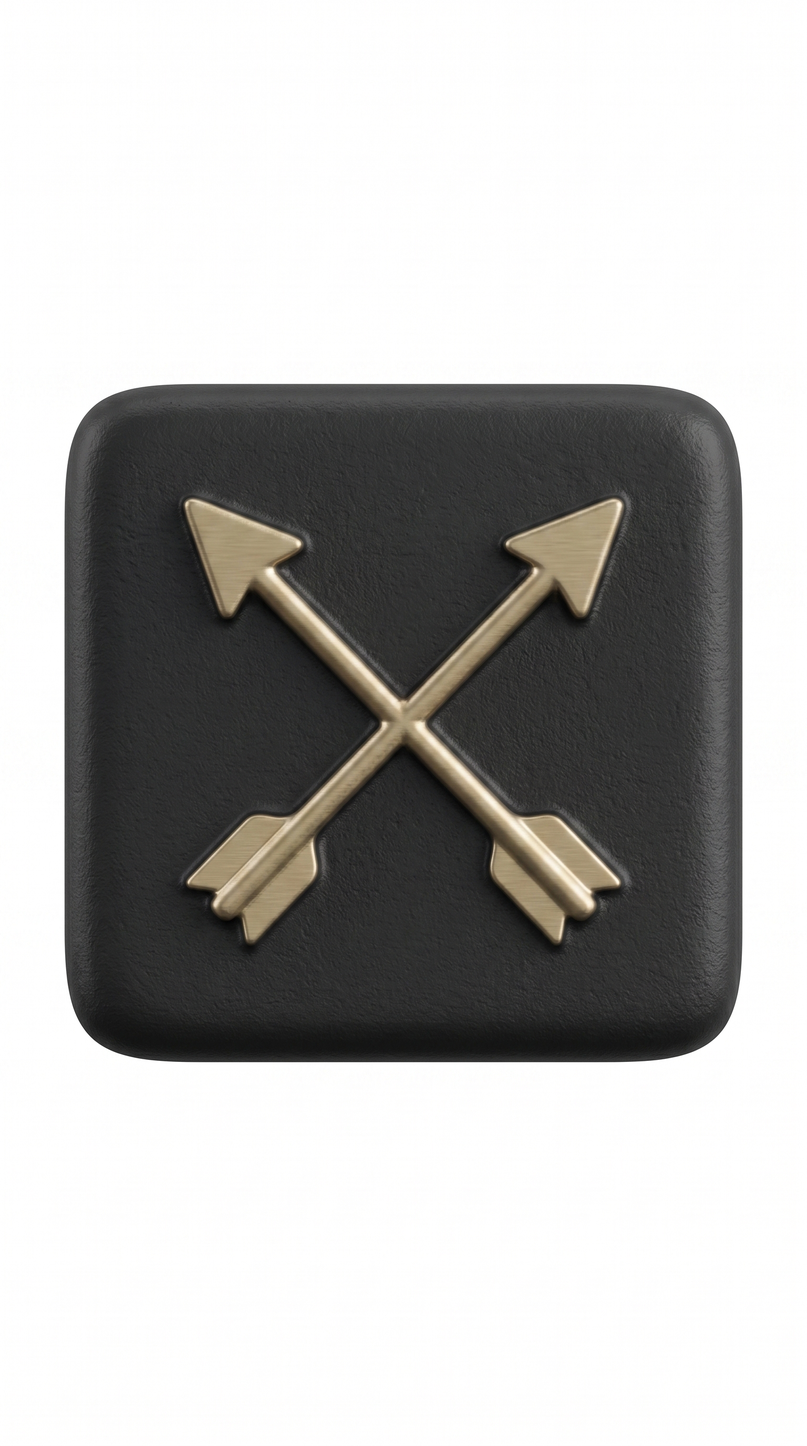
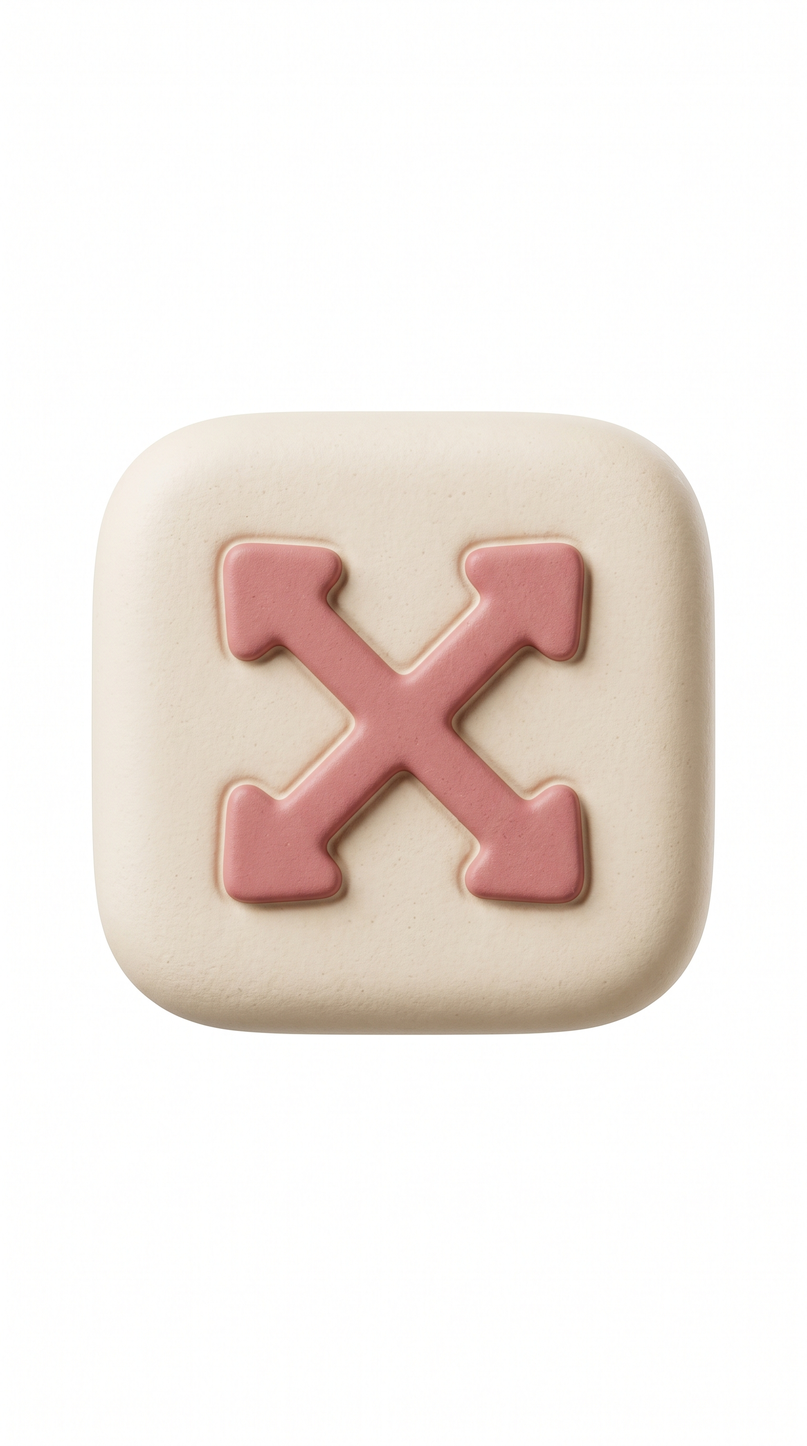
feat: Chroma-Key fuer helle Motive
Der Studio-Hintergrund kommt nie als exaktes Weiss aus dem Modell. Beim
Katzen-Render lief er von 241 bis 251 Grau, waehrend das cremeweisse Fell bei
249 bis 251 liegt -- an der Stirn sind Motiv und Hintergrund farbgleich. Weder
ein Schwellwert noch die Konnektivitaetsanalyse koennen das trennen: das
Keying riss eine Kerbe in den Kopf, bei btn_undo fehlte ein Stueck der rechten
Kante, und weil dadurch die Inhaltsbox schrumpfte, wurden die drei Buttons
ungleich gross.

- detectKeyColor erkennt an den Bildecken automatisch, ob gegen Weiss oder
  gegen eine Chroma-Flaeche gekeyt werden muss
- Chroma-Pfad entfaerbt den Saum, damit kein bunter Rand stehen bleibt
- Bestehende Assets bleiben unveraendert: die Erkennung verlangt einheitliche
  Ecken mit Kanalspreizung > 60
- CLAUDE.md: Hintergrundfarbe als erste Katalogregel, Prompts fuer Katze und
  Buttons auf Magenta umgestellt

diff --git a/scripts/process_assets.js b/scripts/process_assets.js
@@ -256,7 +256,65 @@ function fillInteriorHoles(data, width, height, alphaMax = 250) {
   return filled;
 }
 
-function defringe(data, stripHalo = true) {
+// Erkennt, wogegen freigestellt werden muss. Standard ist Weiss. Ist der Rand
+// dagegen kraeftig bunt und einheitlich, wurde gegen eine Chroma-Flaeche
+// gerendert -- dann wird gegen diese Farbe gekeyt.
+//
+// Noetig fuer helle Motive: der Katzen-Render hat einen Studio-Hintergrund von
+// 241..251 Grau, waehrend das cremeweisse Fell bei 249..251 liegt. An der Stirn
+// sind Motiv und Hintergrund exakt dieselbe Farbe -- weder ein Schwellwert noch
+// eine Konnektivitaetsanalyse koennen das trennen. Gegen ein saettigungsstarkes
+// Chroma ist die Trennung dagegen eindeutig.
+function detectKeyColor(data, width, height) {
+  const samples = [];
+  const inset = 4;
+  for (const [x, y] of [
+    [inset, inset], [width - 1 - inset, inset],
+    [inset, height - 1 - inset], [width - 1 - inset, height - 1 - inset],
+    [Math.floor(width / 2), inset], [Math.floor(width / 2), height - 1 - inset]
+  ]) {
+    const i = (y * width + x) * 4;
+    samples.push([data[i], data[i + 1], data[i + 2]]);
+  }
+
+  const avg = [0, 1, 2].map(c => samples.reduce((a, p) => a + p[c], 0) / samples.length);
+  const spread = Math.max(...avg) - Math.min(...avg);
+
+  // Alle Ecken nah beieinander?
+  const uniform = samples.every(p =>
+    Math.abs(p[0] - avg[0]) < 30 && Math.abs(p[1] - avg[1]) < 30 && Math.abs(p[2] - avg[2]) < 30);
+
+  if (uniform && spread > 60) {
+    return { r: Math.round(avg[0]), g: Math.round(avg[1]), b: Math.round(avg[2]), chroma: true };
+  }
+  return { r: 255, g: 255, b: 255, chroma: false };
+}
+
+function defringe(data, stripHalo = true, key = null) {
+  if (key && key.chroma) {
+    // Chroma-Key: Abstand zur Hintergrundfarbe. Zusaetzlich wird der Farbstich
+    // aus den Randpixeln gerechnet, sonst bleibt ein bunter Saum stehen.
+    for (let i = 0; i < data.length; i += 4) {
+      const dist = Math.sqrt(
+        (key.r - data[i]) ** 2 + (key.g - data[i + 1]) ** 2 + (key.b - data[i + 2]) ** 2);
+      if (dist < 60) data[i + 3] = 0;
+      else if (dist < 110) {
+        data[i + 3] = Math.floor(((dist - 60) / 50) * 255);
+        // Saum entfaerben: Richtung Graustufe des Pixels ziehen
+        const lum = (data[i] + data[i + 1] + data[i + 2]) / 3;
+        const t = 1 - (dist - 60) / 50;
+        data[i] = Math.round(data[i] * (1 - t) + lum * t);
+        data[i + 1] = Math.round(data[i + 1] * (1 - t) + lum * t);
+        data[i + 2] = Math.round(data[i + 2] * (1 - t) + lum * t);
+      }
+    }
+    return data;
+  }
+
+  return defringeWhite(data, stripHalo);
+}
+
+function defringeWhite(data, stripHalo = true) {
   for (let i = 0; i < data.length; i += 4) {
     const dist = Math.sqrt((255 - data[i]) ** 2 + (255 - data[i + 1]) ** 2 + (255 - data[i + 2]) ** 2);
     if (dist < 18) data[i + 3] = 0;
@@ -357,7 +415,9 @@ function trimShadowEdges(data, width, box, threshold = 0.9) {
 // Flaeche eingegrenzt, damit ein zweites Objekt im Render nichts verschiebt.
 async function cropToContent(filePath, strategy = 'union', trimShadow = false, softEdge = 0) {
   const { data, info } = await sharp(filePath).ensureAlpha().raw().toBuffer({ resolveWithObject: true });
-  defringe(data);
+  const key = detectKeyColor(data, info.width, info.height);
+  if (key.chroma) console.log(`    Chroma-Hintergrund erkannt: rgb(${key.r},${key.g},${key.b})`);
+  defringe(data, true, key);
 
   const holes = fillInteriorHoles(data, info.width, info.height);
   if (holes > 0) console.log(`    ${holes} Innenpixel wiederhergestellt`);
@@ -459,7 +519,9 @@ async function processImages() {
 
       // Bildfuellende Ebene: nur freistellen, Position im Frame bleibt erhalten.
       const { data, info } = await sharp(filePath).ensureAlpha().raw().toBuffer({ resolveWithObject: true });
-      defringe(data, false);
+      const key = detectKeyColor(data, info.width, info.height);
+      if (key.chroma) console.log(`    Chroma-Hintergrund erkannt: rgb(${key.r},${key.g},${key.b})`);
+      defringe(data, false, key);
 
       // Rahmen mit geschlossener Rueckwand: Innenflaeche ausstanzen. Das Loch ist
       // danach die exakte lichte Nische -- praeziser als die Helligkeits-Heuristik

diff --git a/CLAUDE.md b/CLAUDE.md
@@ -22,6 +22,17 @@ Schrift: **M PLUS Rounded 1c** (`@fontsource/m-plus-rounded-1c`, nur Latin 500 +
 
 ## 3. Nano Banana Pro Asset Generation Catalog
 
+### Hintergrundfarbe: Weiß oder Magenta
+
+Freigestellt wird gegen die Hintergrundfarbe des Renders. Welche zu wählen ist, hängt am Motiv:
+
+- **Dunkle oder kräftig farbige Motive** → `pure solid white background (#FFFFFF)`. Funktioniert seit jeher.
+- **Helle, cremefarbene oder weiße Motive** → `pure solid magenta background (#FF00FF)`. **Pflicht**, nicht optional.
+
+Der Grund: der Studio-Hintergrund kommt nie als exaktes Weiß aus dem Modell, sondern mit Vignette. Beim Katzen-Render lief er von 241 bis 251 Grau, während das cremeweiße Fell bei 249 bis 251 liegt — an der Stirn sind Motiv und Hintergrund exakt dieselbe Farbe. Das Keying riss daraufhin eine Kerbe in den Kopf, und bei `btn_undo` fehlte ein ganzes Stück der rechten Kante. Weil dadurch auch die Inhaltsbox schrumpfte, wurden die drei Booster-Buttons noch dazu ungleich groß.
+
+Gegen Magenta ist die Trennung eindeutig: kein Ton der Kissa-Palette kommt ihm nahe (das dunkle Azuki-Rosé liegt weit entfernt). Die Pipeline erkennt den Chroma-Hintergrund automatisch an den Bildecken — es ist **keine Konfiguration nötig**, nur der richtige Prompt. Der Saum wird beim Keying zusätzlich entfärbt, damit kein bunter Rand stehen bleibt.
+
 ### Master Negative Prompt (Append to all runs)
 hyper-realistic, high gloss reflections, shiny liquid specular, crumbs, baked floor shadows, blurry edges, gradient background, photorealism, text, watermark, logo, perspective tilt, 3d render artifacts, multiple objects, second object, duplicate, collage, grid layout, product lineup
 
@@ -74,15 +85,16 @@ Format: Portrait 9:16 Canvas, Karte horizontal zentriert, großzügiges Weiß ü
 ### Booster Button Prompts (v3)
 v2 waren schwarze Kuro-Steel-Kacheln. Vor dem Gartenhintergrund wirken sie hart und düster — v3 ist heller, runder und freundlicher, bleibt aber in der Palette der Szene (Creme, Matcha, Azuki, Hinoki, Messing).
 Format: Portrait 9:16 Canvas, Objekt mittig, **genau ein Objekt im Bild**. Alle drei mit identischem Körper, nur das Relief unterscheidet sich — sonst wirkt die Reihe unruhig.
+**Magenta-Hintergrund**, weil der Körper cremefarben ist (siehe oben).
 
 14. **btn_undo:**
-    Single chunky rounded-square push button in soft warm cream ceramic with generously rounded corners and a soft pillowy silhouette, a thick raised matcha-green counter-clockwise curved arrow sculpted in smooth low relief on its face, friendly modern art toy look, tactile matte finish with zero gloss, Japanese modern kissa palette, orthographic front view, centered on a portrait 9:16 canvas with generous white padding, pure solid white background (#FFFFFF), zero floor shadow, sharp silhouette edge definition, 8k resolution --style raw
+    Single chunky rounded-square push button in soft warm cream ceramic with generously rounded corners and a soft pillowy silhouette, a thick raised matcha-green counter-clockwise curved arrow sculpted in smooth low relief on its face, friendly modern art toy look, tactile matte finish with zero gloss, Japanese modern kissa palette, orthographic front view, centered on a portrait 9:16 canvas with generous even padding, pure solid magenta background (#FF00FF), zero floor shadow, sharp silhouette edge definition, 8k resolution --style raw
 
 15. **btn_shuffle:**
-    Single chunky rounded-square push button in soft warm cream ceramic with generously rounded corners and a soft pillowy silhouette, two thick raised azuki-rose arrows crossing each other in an X sculpted in smooth low relief on its face, friendly modern art toy look, tactile matte finish with zero gloss, Japanese modern kissa palette, orthographic front view, centered on a portrait 9:16 canvas with generous white padding, pure solid white background (#FFFFFF), zero floor shadow, sharp silhouette edge definition, 8k resolution --style raw
+    Single chunky rounded-square push button in soft warm cream ceramic with generously rounded corners and a soft pillowy silhouette, two thick raised azuki-rose arrows crossing each other in an X sculpted in smooth low relief on its face, friendly modern art toy look, tactile matte finish with zero gloss, Japanese modern kissa palette, orthographic front view, centered on a portrait 9:16 canvas with generous even padding, pure solid magenta background (#FF00FF), zero floor shadow, sharp silhouette edge definition, 8k resolution --style raw
 
 16. **btn_hammer:**
-    Single chunky rounded-square push button in soft warm cream ceramic with generously rounded corners and a soft pillowy silhouette, a thick raised blonde hinoki wood mallet sculpted in smooth low relief on its face, friendly modern art toy look, tactile matte finish with zero gloss, Japanese modern kissa palette, orthographic front view, centered on a portrait 9:16 canvas with generous white padding, pure solid white background (#FFFFFF), zero floor shadow, sharp silhouette edge definition, 8k resolution --style raw
+    Single chunky rounded-square push button in soft warm cream ceramic with generously rounded corners and a soft pillowy silhouette, a thick raised blonde hinoki wood mallet sculpted in smooth low relief on its face, friendly modern art toy look, tactile matte finish with zero gloss, Japanese modern kissa palette, orthographic front view, centered on a portrait 9:16 canvas with generous even padding, pure solid magenta background (#FF00FF), zero floor shadow, sharp silhouette edge definition, 8k resolution --style raw
 
 ### Parallax-Hintergrund "Engawa-Garten" (bgl_ Layer)
 Statt eines einzelnen Bildes wird der Hintergrund aus freigestellten Ebenen gebaut, damit sich Wolken, Laternen und Tiere unabhängig bewegen können. Die Szene: die Regalnische steht auf einer Engawa-Veranda, dahinter öffnet sich ein Garten — blauer Himmel, ferne Hügel, Wiese, oben hängende Chōchin-Laternen unter dem Dachvorsprung, unten spielen Shiba und Katze.
@@ -116,7 +128,8 @@ Die Halo-Entfernung des Defringings läuft für `bgl_`-Vollbild-Ebenen **nicht**
     A horizontal row of five round paper chochin lanterns hanging from thin dark cords of differing lengths, alternating warm ivory and soft azuki red, bamboo rib texture and small brass caps, flat matte art-toy finish with a warm glow from within, all cords starting exactly at the very top edge of the frame, occupying only the upper quarter, tall portrait 9:16 canvas with everything below completely empty, pure solid white background (#FFFFFF), zero floor shadow, no text, 8k resolution --style raw
 
 22. **bgl_cat** *(Idle-Bob, unten links):*
-    A single small chubby calico cat art toy figurine sitting upright with its tail curled around its paws, matte unglazed ceramic finish in cream white with soft azuki and charcoal patches, simplified rounded geometry, Japanese modern kissa aesthetic, orthographic side-facing three-quarter view, centered on a portrait 9:16 canvas with generous white padding, pure solid white background (#FFFFFF), zero floor shadow, sharp silhouette edge definition, 8k resolution --style raw
+    *(v2 — Magenta-Hintergrund. Die v1-Fassung auf Weiß ließ sich nicht freistellen: das cremeweiße Fell und der Studio-Hintergrund waren an der Stirn farbgleich.)*
+    A single small chubby calico cat art toy figurine sitting upright with its tail curled around its paws, matte unglazed ceramic finish in cream white with soft azuki and charcoal patches, simplified rounded geometry, Japanese modern kissa aesthetic, orthographic side-facing three-quarter view, centered on a portrait 9:16 canvas with generous even padding, pure solid magenta background (#FF00FF), zero floor shadow, sharp silhouette edge definition, 8k resolution --style raw
 
 23. **bgl_niche_frame** *(das Regalgehäuse — fehlt noch, blockiert die Gartenszene):*
     Der bisherige `bg_kissa_niche` ist eine **Wand mit Loch**: sein Umfeld ist warmer Putz (RGB 203–238), kein Weiß. Er lässt sich nicht freistellen und deckt die Parallax-Layer vollständig zu. Solange dieses Asset fehlt, läuft das Spiel im Fallback auf die alte Wand-Nische.
@@ -215,6 +228,6 @@ Das Loch ist danach die exakte lichte Nische und wird als `BG_CAVITY_RECTS` expo
 Im Gehäuse liegt ein Shoji-Panel (Deckkraft 0.55) zwischen Garten und Regalbrettern. Ohne das milchige Papier stehen die Goods direkt auf Himmel und Hügeln und verlieren ihren Kontrast; bei 0.9 war der Garten dahinter komplett weg.
 
 ### Offene Punkte
-- `btn_undo`, `btn_shuffle`, `btn_hammer` sind auf v2 (schwarze Kacheln). Prompts 14–16 rendern.
+- **`bgl_cat` und die drei `btn_*` müssen gegen Magenta neu gerendert werden** (Prompts 14–16 und 22). Auf Weiß sind sie nicht sauber freistellbar — Kerbe in der Katzenstirn, fehlendes Stück an `btn_undo`, dadurch ungleich große Buttons. Die Pipeline erkennt den Chroma-Hintergrund von selbst.
 - `bg_kissa_niche_mid` hat dieselbe gemessene Nischenweite wie `bg_kissa_niche` — nur noch relevant, falls der Fallback ohne `bgl_niche_frame` wieder gebraucht wird.
 - `ui_card_kuro` / `ui_card_hinoki` sind fertig, werden aber aktuell **nicht gezeichnet** — der Header steht frei über der Szene. `addCardNineSlice` bleibt im Code, falls die Platten zurückkommen.
